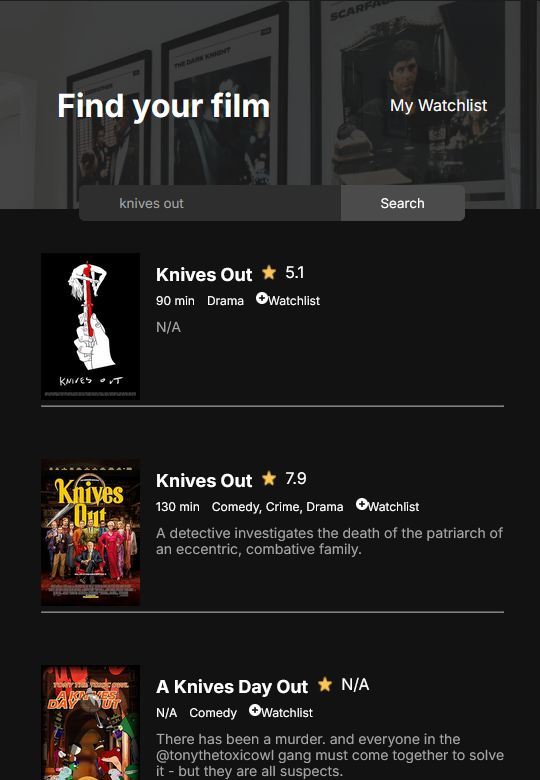
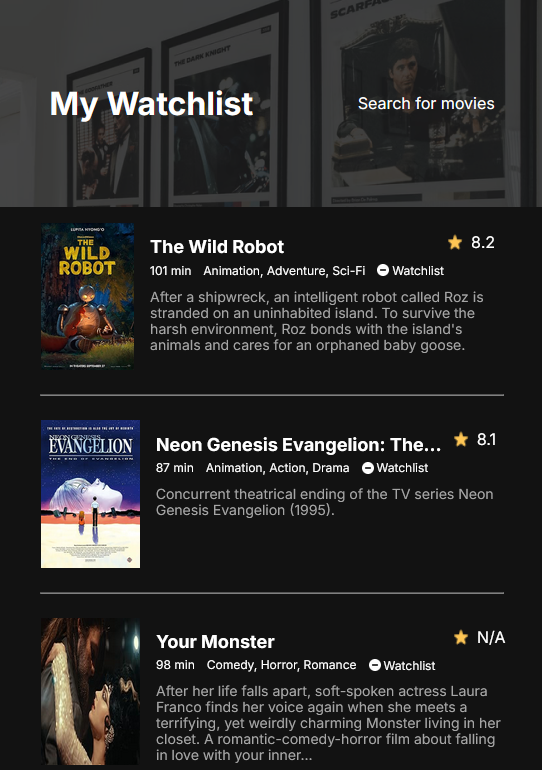
changed watchlist screenshot, description + alt text

diff --git a/src/utils/portfolioList.js b/src/utils/portfolioList.js
@@ -27,9 +27,9 @@ export const scrimProjList = [
     },
     {
         name: 'Movie Watchlist',
-        description: "The purpose of this project was to demonstrate my knowledge with APIs. This particular project used the free OMDB API.",
+        description: "The purpose of this project was to demonstrate my knowledge with APIs. This particular project used the free OMDB API, which is limited to 1000 queries a day. Since then, I have refactored the project from vanilla JavaScript to the React framework, along with redefining CSS to have rules better aligning assets in the movie container, as well as responsive design for mobile layouts. This refactor re-taught me a lot about using Promise objects to make sure one Fetch function runs after the other is complete, and it also reminded me of the great importance that is error logging to pin down where exactly an app breaks.",
         image: '/portfolio-images/watchlist-screen.png',
-        altText: "A screenshot previewing the Movie Watchlist project, with a header component, a results section displaying query results for the movie Knives Out, and a search bar fixed between the two.",
+        altText: "A screenshot previewing the Movie Watchlist project, with a header component, a saved watchlist section displaying the movies Your Monster, Evangelion 1.0, and The Wild Robot, with accompanying information such as runtime and plot.",
         componentName: 'MovieWatchlist',
         pathName: 'https://am98-movie-watchlist.netlify.app/'
     },
